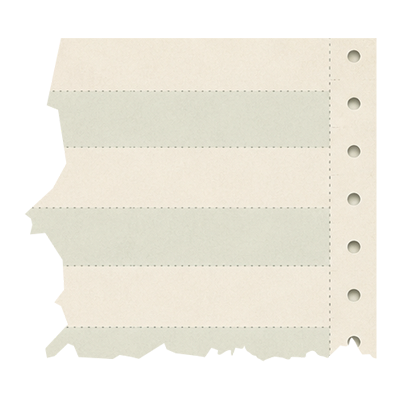
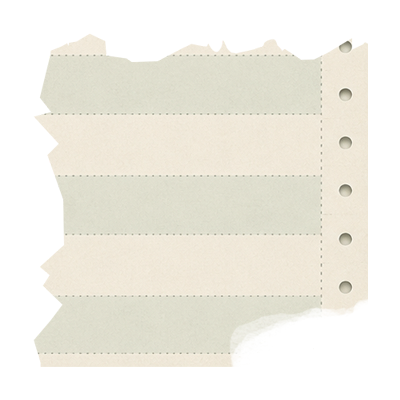
Gate puzzle acquisition animation to first-time, add Stay Here button
- PuzzleCompleteCard gains playAcquisitionAnimation prop; the flight only
  fires when the card represents a freshly-solved puzzle this iframe
  session, not on re-clicks of an already-completed puzzle.
- Home tracks puzzlesCompleted transitions via refs and picks rich copy
  (content.puzzles[N].complete) on first-time, trimmed copy
  (content.puzzles[N].alreadyComplete: title + heading + body + itemName)
  on revisits. Added alreadyComplete copy for puzzles 1/2/3/5/6.
- SET_GAME_STATE reducer is now additive — partial dispatches like
  /teleport no longer wipe inventory/badges/leaderboard.
- Exit screen adds a "Stay Here" button + new POST /close-iframe endpoint
  that calls visitor.closeIframe(assetId) without ending the session.

diff --git a/client/src/pages/Home.tsx b/client/src/pages/Home.tsx
@@ -188,6 +188,25 @@ export const Home = () => {
   const room1Done = !!(puzzlesCompleted?.[1] && puzzlesCompleted?.[2]);
   const room2Done = !!(puzzlesCompleted?.[3] && puzzlesCompleted?.[4] && puzzlesCompleted?.[5]);
 
+  // Track puzzles that flipped from false → true *within this iframe session*
+  // so PuzzleCompleteCard can show the rich just-acquired copy + fire the
+  // acquisition-flight animation. On a fresh iframe load where the puzzle is
+  // already complete, this set stays empty — the card shows the trimmed
+  // `alreadyComplete` copy with no animation. Mutating a ref during render
+  // is safe because the comparison is idempotent.
+  const prevPuzzlesCompletedRef = useRef<typeof puzzlesCompleted>(undefined);
+  const justCompletedRef = useRef<Set<number>>(new Set());
+  if (puzzlesCompleted) {
+    const prev = prevPuzzlesCompletedRef.current;
+    if (prev !== undefined) {
+      ([1, 2, 3, 4, 5, 6, 7] as const).forEach((n) => {
+        if (puzzlesCompleted[n] && !prev[n]) justCompletedRef.current.add(n);
+      });
+    }
+    prevPuzzlesCompletedRef.current = puzzlesCompleted;
+  }
+  const wasJustCompleted = (n: number) => justCompletedRef.current.has(n);
+
   // Hardcoded: no admin surface to configure it yet. Server uses the same
   // value (see `MAX_SESSION_MINUTES` in checkSessionExpiration.ts) — keep
   // the two in sync if either changes.
@@ -258,6 +277,18 @@ export const Home = () => {
     try {
       const res = await backendAPI.post("/exit");
       setGameState(dispatch, res.data);
+    } catch (error) {
+      setErrorMessage(dispatch, error as ErrorType);
+    }
+    setIsLoading(false);
+  };
+
+  // Closes the iframe without ending the session — the "Stay Here" path off
+  // the exit confirmation. Server-side calls visitor.closeIframe(assetId).
+  const stayHere = async () => {
+    setIsLoading(true);
+    try {
+      await backendAPI.post("/close-iframe");
     } catch (error) {
       setErrorMessage(dispatch, error as ErrorType);
     }
@@ -514,15 +545,20 @@ export const Home = () => {
 
         {screen === "exit" && (
           // Exit terminal — its own in-world asset. Clicking it brings the
-          // player here; the page is the confirmation. There's no Cancel —
-          // walking away or clicking a different in-world asset is "no".
+          // player here; the page is the confirmation. "Stay Here" closes
+          // the iframe without ending the session; "Exit" ends the run.
           <div className="card w-full">
             <div className="card-details">
               <h3 className="card-title">{exitConfirmation.title}</h3>
               <p className="card-description p2 pt-2">{exitConfirmation.message}</p>
-              <button className="btn btn-danger" onClick={exitGame} disabled={isLoading}>
-                {exitButton}
-              </button>
+              <div className="card-actions mt-2 flex flex-col sm:flex-row gap-3">
+                <button className="btn btn-outline" onClick={stayHere} disabled={isLoading}>
+                  {exitConfirmation.stayButton}
+                </button>
+                <button className="btn btn-danger" onClick={exitGame} disabled={isLoading}>
+                  {exitButton}
+                </button>
+              </div>
             </div>
           </div>
         )}
@@ -581,14 +617,20 @@ export const Home = () => {
         {/* Room 1 — Puzzles 1 & 2 */}
         {screen === "puzzle1" &&
           (puzzlesCompleted?.[1] ? (
-            <PuzzleCompleteCard {...content.puzzles[1].complete} />
+            <PuzzleCompleteCard
+              {...(wasJustCompleted(1) ? content.puzzles[1].complete : content.puzzles[1].alreadyComplete)}
+              playAcquisitionAnimation={wasJustCompleted(1)}
+            />
           ) : (
             <Room1Puzzle1 refreshGameState={refreshGameState} />
           ))}
 
         {screen === "puzzle2" &&
           (puzzlesCompleted?.[2] ? (
-            <PuzzleCompleteCard {...content.puzzles[2].complete} />
+            <PuzzleCompleteCard
+              {...(wasJustCompleted(2) ? content.puzzles[2].complete : content.puzzles[2].alreadyComplete)}
+              playAcquisitionAnimation={wasJustCompleted(2)}
+            />
           ) : (
             <Room1Puzzle2 refreshGameState={refreshGameState} />
           ))}
@@ -598,7 +640,10 @@ export const Home = () => {
           (!room1Done ? (
             <LockedState title={states.room2Locked.title} message={states.room2Locked.message} />
           ) : puzzlesCompleted?.[3] ? (
-            <PuzzleCompleteCard {...content.puzzles[3].complete} />
+            <PuzzleCompleteCard
+              {...(wasJustCompleted(3) ? content.puzzles[3].complete : content.puzzles[3].alreadyComplete)}
+              playAcquisitionAnimation={wasJustCompleted(3)}
+            />
           ) : (
             <Room2Puzzle1 refreshGameState={refreshGameState} />
           ))}
@@ -616,7 +661,10 @@ export const Home = () => {
           (!puzzlesCompleted?.[4] ? (
             <LockedState title={states.puzzle5Locked.title} message={states.puzzle5Locked.message} />
           ) : puzzlesCompleted?.[5] ? (
-            <PuzzleCompleteCard {...content.puzzles[5].complete} />
+            <PuzzleCompleteCard
+              {...(wasJustCompleted(5) ? content.puzzles[5].complete : content.puzzles[5].alreadyComplete)}
+              playAcquisitionAnimation={wasJustCompleted(5)}
+            />
           ) : (
             <Room2Puzzle3 refreshGameState={refreshGameState} />
           ))}
@@ -626,7 +674,10 @@ export const Home = () => {
           (!room2Done ? (
             <LockedState title={states.room3Locked.title} message={states.room3Locked.message} />
           ) : puzzlesCompleted?.[6] ? (
-            <PuzzleCompleteCard {...content.puzzles[6].complete} />
+            <PuzzleCompleteCard
+              {...(wasJustCompleted(6) ? content.puzzles[6].complete : content.puzzles[6].alreadyComplete)}
+              playAcquisitionAnimation={wasJustCompleted(6)}
+            />
           ) : (
             <Room3Puzzle1 refreshGameState={refreshGameState} />
           ))}

diff --git a/client/src/constants.ts b/client/src/constants.ts
@@ -86,6 +86,7 @@ export const content = {
   exitConfirmation: {
     title: "Exit Game",
     message: "Are you sure you want to exit the game? Your progress will NOT be saved.",
+    stayButton: "Stay Here",
   },
   exitButton: "Exit",
 
@@ -281,7 +282,7 @@ export const content = {
     1: {
       title: "Power Console",
       description:
-        "Main power is down. See if you can find clue to the secret restart code in the crew’s service records.",
+        "Main power is down. See if you can find clues to the secret restart code in the crew’s service records.",
       howToPlay: "Click each dial to cycle through its colors.",
       controlLabelPrefix: "Dial",
       currentPrefix: "Current:",
@@ -297,6 +298,12 @@ export const content = {
         dialogueSpeaker: "Commander Vega",
         dialogue: "“Nice work, crew. Keep momentum!”",
         body: "A Battery has been added to your inventory",
+        itemName: "Battery",
+      },
+      alreadyComplete: {
+        title: "Power Bay Secure",
+        heading: "BATTERY",
+        body: "Already in your inventory",
         itemName: "Battery",
       },
     },
@@ -329,6 +336,12 @@ export const content = {
         body: "Reactor sequence locked. Fuse added to your inventory.",
         itemName: "Fuse",
       },
+      alreadyComplete: {
+        title: "Reactor Online",
+        heading: "FUSE",
+        body: "Already in your inventory",
+        itemName: "Fuse",
+      },
     },
 
     /* Puzzle 3 — Satellite Alignment (Room 2) */
@@ -348,6 +361,12 @@ export const content = {
         title: "Communication Signal Aligned",
         heading: "WRENCH ACQUIRED",
         body: "The satellites are now in perfect alignment. Communication restored! Wrench added to your inventory.",
+        itemName: "Wrench",
+      },
+      alreadyComplete: {
+        title: "Communication Signal Aligned",
+        heading: "WRENCH",
+        body: "Already in your inventory",
         itemName: "Wrench",
       },
     },
@@ -409,6 +428,12 @@ export const content = {
         body: "A Circuit Chip has been added to your inventory!",
         itemName: "Circuit Chip",
       },
+      alreadyComplete: {
+        title: "Communications Stabilized",
+        heading: "CIRCUIT CHIP",
+        body: "Already in your inventory",
+        itemName: "Circuit Chip",
+      },
     },
 
     /* Puzzle 6 — Restore Circuit (Room 3) */
@@ -430,6 +455,10 @@ export const content = {
       complete: {
         title: "Airlock Systems Restored",
         body: "Commander Vega: “Circuit stabilized. The keypad is live—enter the override code to finish the escape.”",
+      },
+      alreadyComplete: {
+        title: "Airlock Systems Restored",
+        body: "Circuit already restored. Enter the override code on the keypad to finish the escape.",
       },
     },
 

diff --git a/client/src/components/puzzles/PuzzleCompleteCard.tsx b/client/src/components/puzzles/PuzzleCompleteCard.tsx
@@ -29,6 +29,12 @@ interface PuzzleCompleteCardProps {
   dialogueSpeaker?: string;
   dialogue?: string;
   itemName?: string;
+  /**
+   * Fire the item-acquisition flight animation on mount. Caller passes
+   * `true` only when this render reflects a *fresh* completion (the player
+   * just submitted) — re-visits set it to `false` so no animation plays.
+   */
+  playAcquisitionAnimation?: boolean;
   children?: ReactNode;
 }
 
@@ -41,20 +47,20 @@ export const PuzzleCompleteCard = ({
   dialogueSpeaker,
   dialogue,
   itemName,
+  playAcquisitionAnimation = false,
   children,
 }: PuzzleCompleteCardProps) => {
   const { visitorInventory } = useContext(GlobalStateContext);
   const itemImage = itemName ? findInventoryImage(visitorInventory?.items, itemName) : undefined;
 
-  // Acquisition-flight animation: when the card mounts with a granted item
-  // image, clone it and fly it toward the Inventory button. Fires exactly
-  // once per mount via `firedRef`; waits for image `load` if not yet cached.
-  // Re-opening the same puzzle's complete card refires (each iframe click is
-  // a fresh mount) — intentional so the player gets the visual feedback
-  // every time, not just on the initial submit.
+  // Acquisition-flight animation. Gated by `playAcquisitionAnimation` so
+  // re-opening a completed puzzle's iframe doesn't replay the flight. Fires
+  // exactly once per mount via `firedRef`; waits for image `load` if not
+  // yet cached.
   const imgRef = useRef<HTMLImageElement | null>(null);
   const firedRef = useRef(false);
   useEffect(() => {
+    if (!playAcquisitionAnimation) return;
     if (!itemImage || !itemName) return;
     if (firedRef.current) return;
     const img = imgRef.current;
@@ -72,7 +78,7 @@ export const PuzzleCompleteCard = ({
     }
     img.addEventListener("load", fire, { once: true });
     return () => img.removeEventListener("load", fire);
-  }, [itemImage, itemName]);
+  }, [playAcquisitionAnimation, itemImage, itemName]);
 
   return (
     <div className="grid gap-3">

diff --git a/client/src/context/reducer.ts b/client/src/context/reducer.ts
@@ -9,21 +9,27 @@ const globalReducer = (state: InitialState, action: ActionType) => {
         hasInteractiveParams: true,
       };
     case SET_GAME_STATE:
+      // Additive merge: only overwrite fields that the payload actually
+      // carries. Partial dispatches (/teleport, /grant-item, /session, etc.)
+      // would otherwise wipe inventory / leaderboard / badges since their
+      // responses don't include those.
       return {
         ...state,
-        isAdmin: payload.isAdmin,
-        visitorData: payload.visitorData,
-        droppedAsset: payload.droppedAsset,
-        leaderboard: payload.leaderboard,
-        sessionKey: payload.sessionKey,
-        uniqueName: payload.uniqueName,
+        isAdmin: payload.isAdmin ?? state.isAdmin,
+        visitorData: payload.visitorData ?? state.visitorData,
+        droppedAsset: payload.droppedAsset ?? state.droppedAsset,
+        leaderboard: payload.leaderboard ?? state.leaderboard,
+        sessionKey: payload.sessionKey ?? state.sessionKey,
+        uniqueName: payload.uniqueName ?? state.uniqueName,
         error: "",
-        badges: payload.badges,
-        visitorInventory: {
-          badges: payload.visitorInventory?.badges || {},
-          items: payload.visitorInventory?.items || [],
-        },
-        hasSessionExpired: payload.hasSessionExpired,
+        badges: payload.badges ?? state.badges,
+        visitorInventory: payload.visitorInventory
+          ? {
+              badges: payload.visitorInventory.badges || {},
+              items: payload.visitorInventory.items || [],
+            }
+          : state.visitorInventory,
+        hasSessionExpired: payload.hasSessionExpired ?? state.hasSessionExpired,
       };
     case SET_ERROR:
       return {

diff --git a/server/controllers/handleCloseIframe.ts b/server/controllers/handleCloseIframe.ts
@@ -1,0 +1,27 @@
+import { Request, Response } from "express";
+import { Visitor, errorHandler, getCredentials } from "@utils/index.js";
+
+/**
+ * Closes the current iframe without touching the session. Used by the
+ * exit screen's "Stay Here" button so the player can dismiss the exit
+ * prompt and keep playing.
+ */
+export const handleCloseIframe = async (req: Request, res: Response) => {
+  try {
+    const credentials = getCredentials(req.query);
+    const { assetId, urlSlug, visitorId } = credentials;
+
+    const visitor = await Visitor.create(visitorId, urlSlug, { credentials });
+    await visitor.closeIframe(assetId);
+
+    return res.json({ success: true });
+  } catch (error) {
+    return errorHandler({
+      error,
+      functionName: "handleCloseIframe",
+      message: "Error closing iframe",
+      req,
+      res,
+    });
+  }
+};

diff --git a/client/src/components/home/InventoryPanel.tsx b/client/src/components/home/InventoryPanel.tsx
@@ -91,7 +91,7 @@ export const InventoryPanel = ({ onClose, inventoryItems }: InventoryPanelProps)
         aria-label={inventory.panelTitle}
       >
         <div className="modal" onClick={(e) => e.stopPropagation()}>
-          <div className="modal-header flex gap-2 grid-cols-2 justify-between sticky top-[-10px] ">
+          <div className="modal-header flex gap-2 grid-cols-2 justify-between sticky top-[-26px] bg-white py-2">
             <h3 className="flex-grow">{inventory.panelTitle}</h3>
             <button className="er-button-text" onClick={onClose}>
               <img src="https://sdk-style.s3.amazonaws.com/icons/x.svg" style={{ width: "10px" }} />

diff --git a/server/routes.ts b/server/routes.ts
@@ -2,6 +2,7 @@ import express from "express";
 import { getVersion } from "./utils/getVersion.js";
 import {
   handleCheckSession,
+  handleCloseIframe,
   handleDiscoverDecoy,
   handleExitGame,
   handleGetGameState,
@@ -46,5 +47,6 @@ router.post("/grant-item", handleGrantItem);
 router.post("/discover-decoy", handleDiscoverDecoy);
 router.post("/wrong-attempt", handleWrongAttempt);
 router.post("/exit", handleExitGame);
+router.post("/close-iframe", handleCloseIframe);
 
 export default router;

diff --git a/client/src/components/home/BadgesTab.tsx b/client/src/components/home/BadgesTab.tsx
@@ -31,7 +31,7 @@ export const BadgesTab = ({ badges, earned }: BadgesTabProps) => {
         const style = { maxWidth: "100%", filter: "none", opacity: "1" };
         if (!hasBadge) {
           style.filter = "grayscale(1)";
-          style.opacity = "0.7";
+          style.opacity = "0.4";
         }
         return (
           <div className="tooltip" key={name}>

diff --git a/server/controllers/index.ts b/server/controllers/index.ts
@@ -1,4 +1,5 @@
 export * from "./handleCheckSession.js";
+export * from "./handleCloseIframe.js";
 export * from "./handleDiscoverDecoy.js";
 export * from "./handleExitGame.js";
 export * from "./handleGetGameState.js";

diff --git a/client/src/styles/components.css b/client/src/styles/components.css
@@ -231,7 +231,7 @@ body {
 }
 
 .er-inventory-tile__hint {
-  color: var(--er-gold);
+  color: var(--er-blue);
   margin-top: 8px;
 }
 
